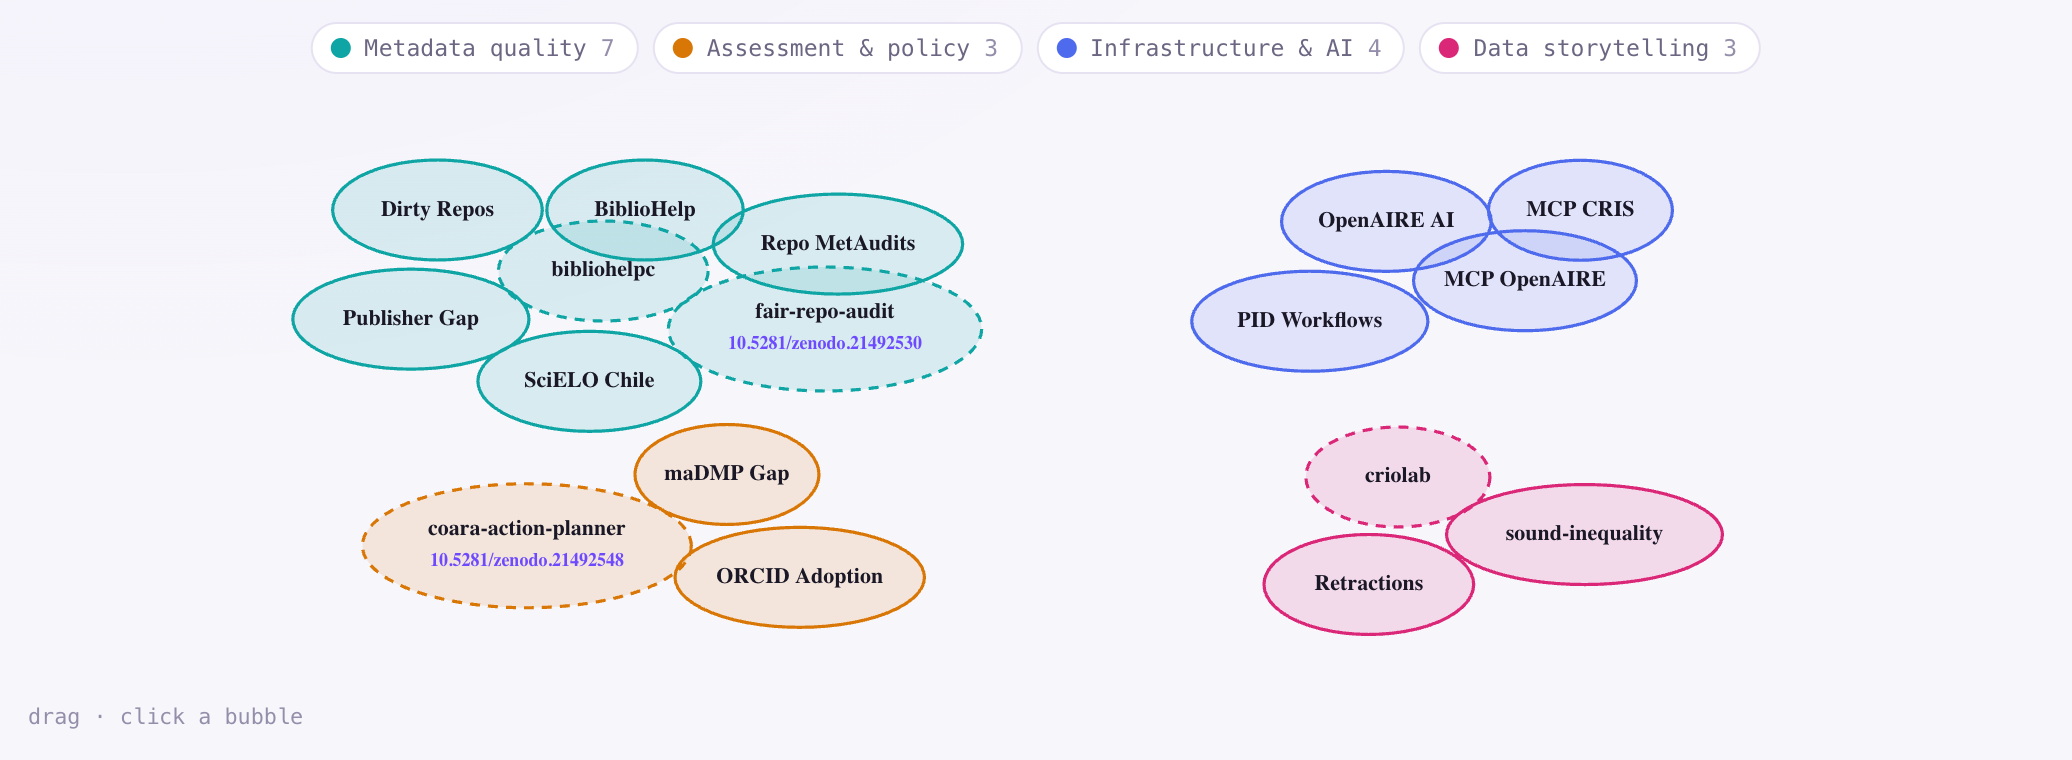
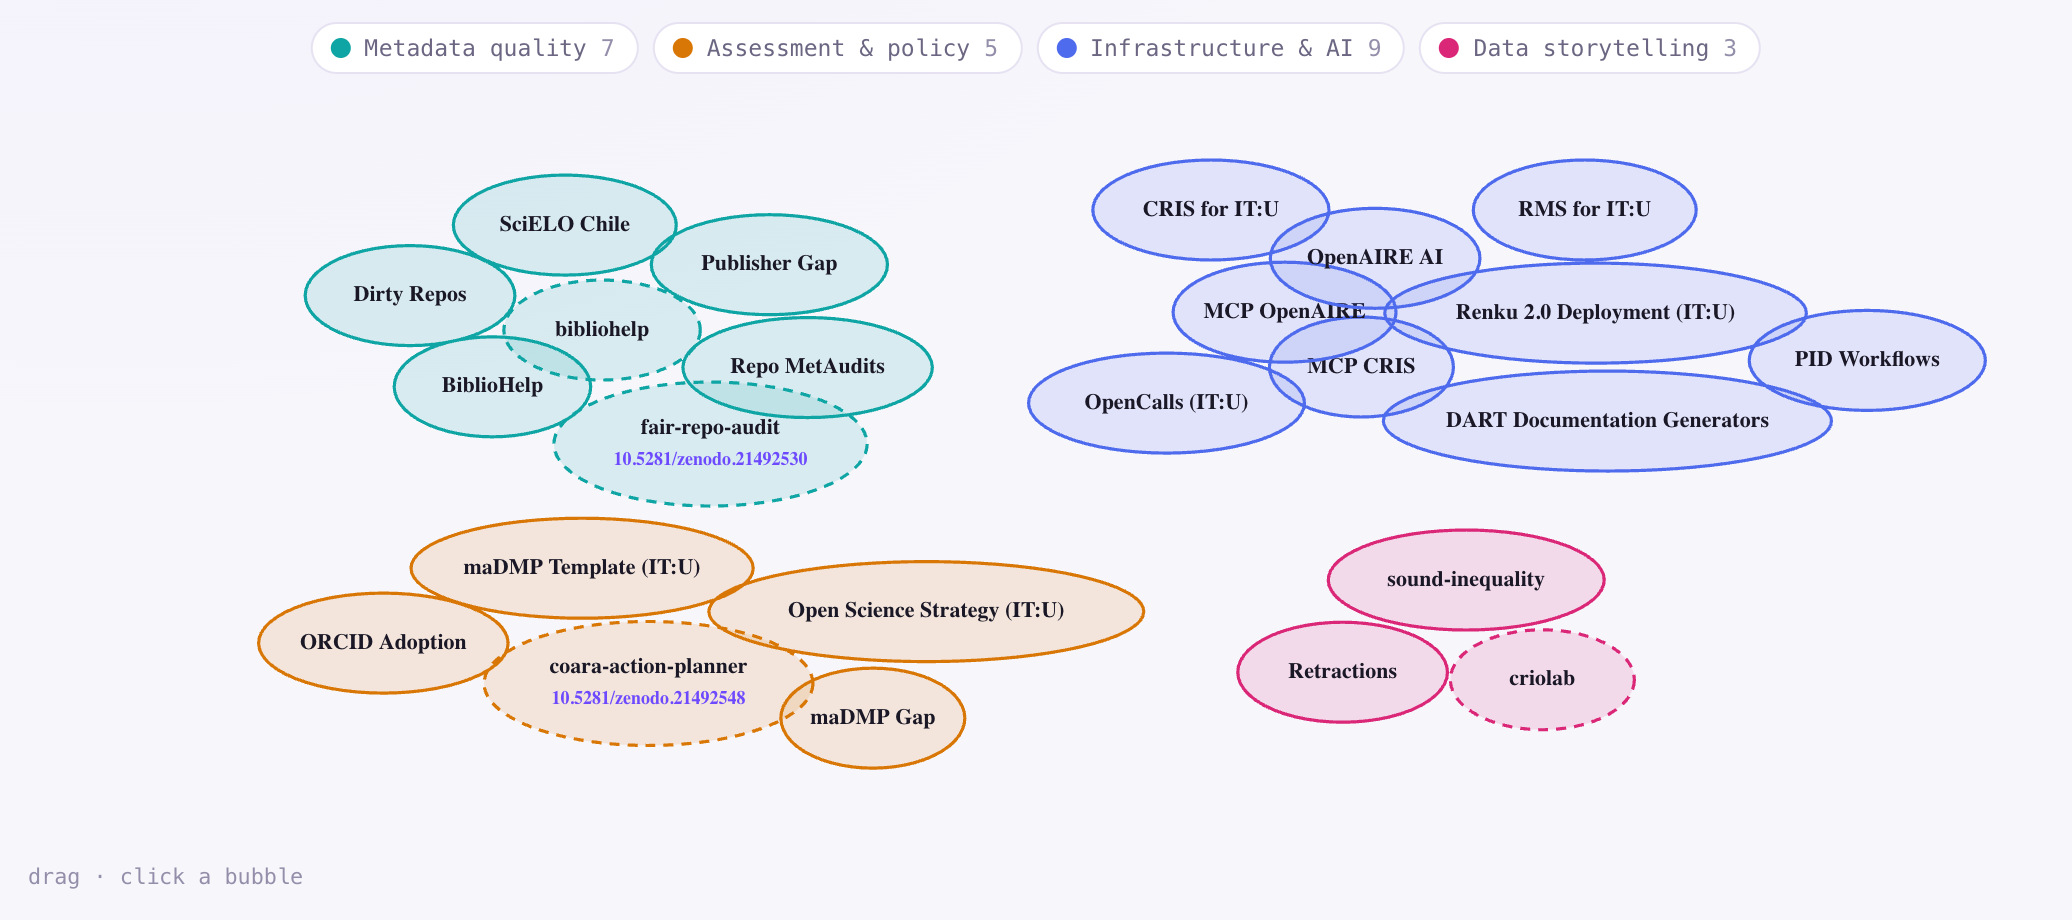
Let the cloud carry 24 ovals without a collision or a stray label
Three defects surfaced once the IT:U entries landed.

The curated short-label table matched `maDMP` anywhere in a title, so
maDMP Template (IT:U) was drawn as a second oval reading "maDMP Gap":
two different tools, one label. The pattern is anchored to `maDMP Gap`
and the new entry falls through to its own title. Checked across all 24
ovals, no duplicate labels remain.

The detail panel hides itself by translating 360px past the right edge
of the stage, and nothing clipped it, so the document was 348px wider
than the viewport and the page could be dragged sideways on any screen
above 620px. This was live, not new. `.stage` now clips on the X axis
with a 24px clip margin, which keeps the open panel's shadow intact.

At 380px tall the four clusters could not settle 24 ovals without
crossing each other. The canvas grows to 460px: over a seeded layout the
deepest overlap between two unrelated ovals falls from 11px to 8px and
the overlapping pairs from 18 to 14, with every label back inside its
own oval. Related pairs still touch on purpose.

Screenshot regenerated, alt text and prose state the new counts.

Claude-Session: https://claude.ai/code/session_01Xzw8Ng79UiFezdyCddFq6C

diff --git a/index.html b/index.html
@@ -95,8 +95,8 @@
   .lg .n{font-variant-numeric:tabular-nums;color:var(--faint)}
 
   /* cloud */
-  .stage{position:relative;border-radius:16px}
-  #cloud{display:block;width:100%;height:380px;touch-action:none;cursor:grab}
+  .stage{position:relative;border-radius:16px;overflow-x:clip;overflow-clip-margin:24px}
+  #cloud{display:block;width:100%;height:460px;touch-action:none;cursor:grab}
   @media (max-width:560px){#cloud{height:440px}}
   #cloud.grabbing{cursor:grabbing}
   .hint{position:absolute;left:14px;bottom:12px;font-family:var(--mono);font-size:.68rem;color:var(--faint);pointer-events:none}
@@ -309,7 +309,7 @@ function srcLabel(u){if(!u)return"";try{const h=new URL(u).hostname.replace(/^ww
 /* curated short labels shown inside the ovals (order matters: OpenAIRE variant before the plain MCP) */
 const SHORT=[[/BiblioHelp/,"BiblioHelp"],[/Scielo/i,"SciELO Chile"],[/Repo MetAudits/,"Repo MetAudits"],
   [/Dirty Repos/,"Dirty Repos"],[/Publisher Gap/,"Publisher Gap"],[/Retracted/,"Retractions"],
-  [/maDMP/,"maDMP Gap"],[/ORCID Adoption/,"ORCID Adoption"],[/MCP CRIS Live — OpenAIRE/,"MCP OpenAIRE"],
+  [/maDMP Gap/,"maDMP Gap"],[/ORCID Adoption/,"ORCID Adoption"],[/MCP CRIS Live — OpenAIRE/,"MCP OpenAIRE"],
   [/MCP CRIS Live/,"MCP CRIS"],[/OpenAIRE Research/,"OpenAIRE AI"],[/sound-inequality/,"sound-inequality"],
   [/PID Traceability/,"PID Workflows"]];
 function shortOf(t){for(const[re,s]of SHORT)if(re.test(t))return s;return t.split("—")[0].trim();}

diff --git a/README.md b/README.md
@@ -13,15 +13,15 @@ from this origin.
 Available in **English, German and Spanish** (auto-detected, switchable) — interface and
 content both, including every long description.
 
-![The tool cloud: 17 ovals grouped into four colour-coded topics — Metadata quality 7,
-Assessment & policy 3, Infrastructure & AI 4, Data storytelling 3. Related projects touch
-rather than repel, so BiblioHelp sits against bibliohelpc and Repo MetAudits against
+![The tool cloud: 24 ovals grouped into four colour-coded topics, Metadata quality 7,
+Assessment & policy 5, Infrastructure & AI 9, Data storytelling 3. Related projects touch
+rather than repel, so BiblioHelp sits against bibliohelp and Repo MetAudits against
 fair-repo-audit. A dashed outline marks an open GitHub twin; fair-repo-audit and
 coara-action-planner carry their Zenodo DOIs inside the oval.](docs/hub-cloud.png)
 
 ## The three views
 
-- **The hub** (`index.html`) — the 17 tools and experiments as a cloud of ovals grouped
+- **The hub** (`index.html`) — the 24 tools and experiments as a cloud of ovals grouped
   by topic (drag, filter, click to open the live app), plus a tabbed section for the rest
   of the CV: writing, publications, talks, experience, education, engagements, training.
 ![The peer-reviewed list, 23 entries. The link sits on the title, never on the whole row, so
